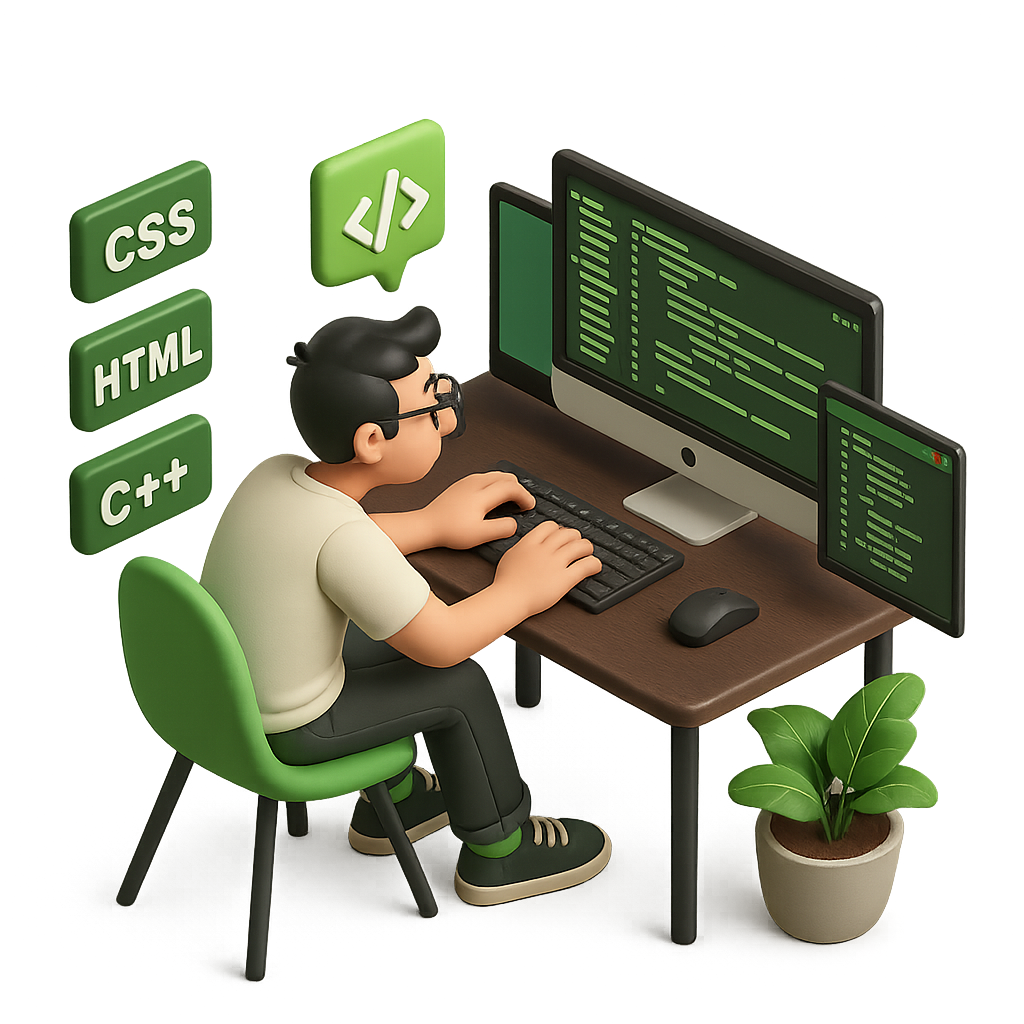
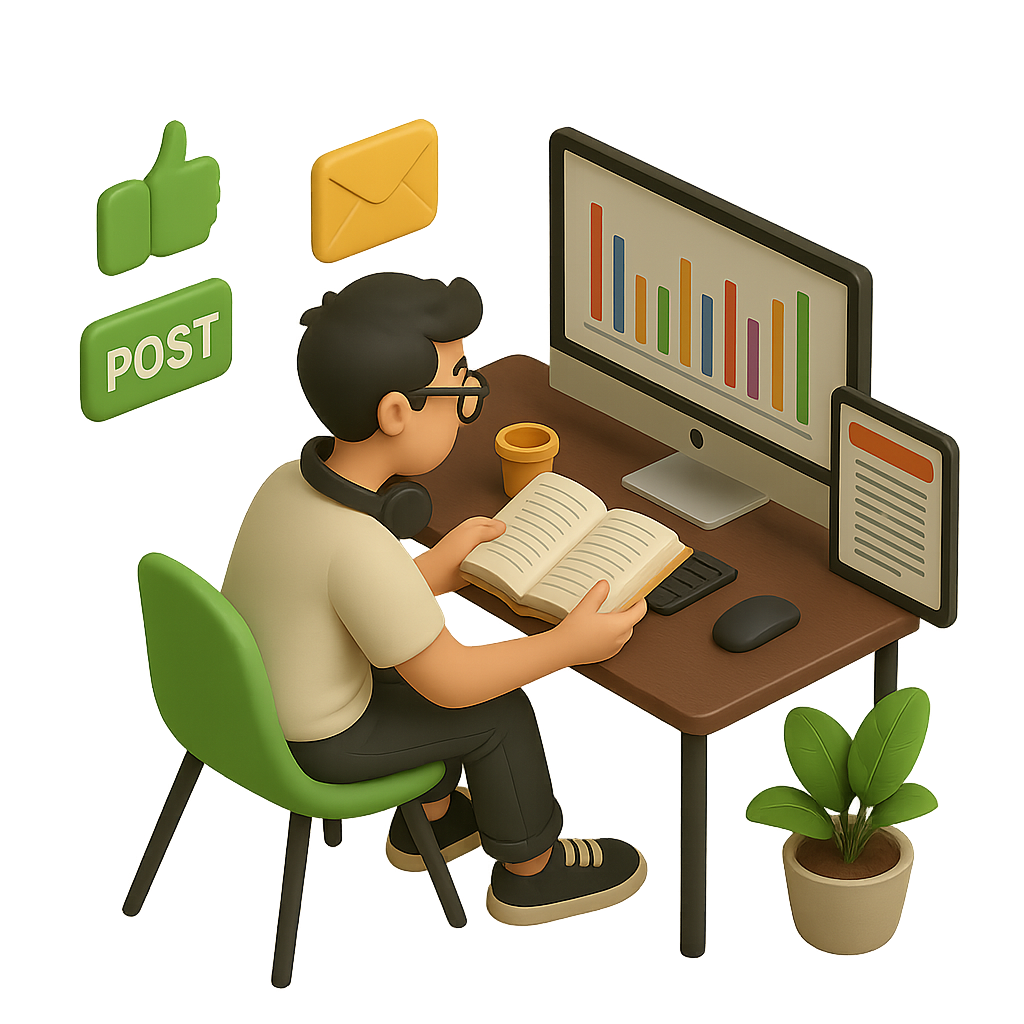
did some minor changes to ui

diff --git a/frontend/src/Pages/HomePage.jsx b/frontend/src/Pages/HomePage.jsx
@@ -50,35 +50,34 @@ function HomePage() {
           <div className="space-y-8">
             <div className="badge badge-primary badge-lg">
               <ZapIcon className="size-4" />
-              Real-time Collaboration
+              Real-time learning collaboration
             </div>
 
             <h1 className="text-5xl lg:text-7xl font-black leading-tight">
               <span className="bg-gradient-to-r from-primary via-secondary to-accent bg-clip-text text-transparent">
-                Code Together,
+                Learn Faster,
               </span>
               <br />
-              <span className="text-base-content">Learn Together</span>
+              <span className="text-base-content">Understand Better</span>
             </h1>
 
             <p className="text-xl text-base-content/70 leading-relaxed max-w-xl">
-              The ultimate platform for collaborative coding interviews and pair programming.
-              Connect face-to-face, code in real-time, and ace your technical interviews.
+              The ultimate platform for smart learning, personalized tutoring, and AI-generated study materials. Get clear explanations, animated video lectures, and instantly generated notes — all aligned with your syllabus
             </p>
 
             {/* FEATURE PILLS */}
             <div className="flex flex-wrap gap-3">
               <div className="badge badge-lg badge-outline">
                 <CheckIcon className="size-4 text-success" />
-                Live Video Chat
+                AI Notes Generator
               </div>
               <div className="badge badge-lg badge-outline">
                 <CheckIcon className="size-4 text-success" />
-                Code Editor
+                Animated Video Lectures
               </div>
               <div className="badge badge-lg badge-outline">
                 <CheckIcon className="size-4 text-success" />
-                Multi-Language
+                Personal Tutor
               </div>
             </div>
 
@@ -86,14 +85,14 @@ function HomePage() {
             <div className="flex flex-wrap gap-4">
               <SignInButton mode="modal">
                 <button className="btn btn-primary btn-lg">
-                  Start Coding Now
+                  🚀 Start Learning Now →
                   <ArrowRightIcon className="size-5" />
                 </button>
               </SignInButton>
 
               <button className="btn btn-outline btn-lg">
                 <VideoIcon className="size-5" />
-                Watch Demo
+                🎥 Watch Demo
               </button>
             </div>
 
@@ -130,7 +129,7 @@ function HomePage() {
             Everything You Need to <span className="text-primary font-mono">Succeed</span>
           </h2>
           <p className="text-lg text-base-content/70 max-w-2xl mx-auto">
-            Powerful features designed to make your coding interviews seamless and productive
+            Powerful features designed to make your  learning seamless and productive
           </p>
         </div>
 
